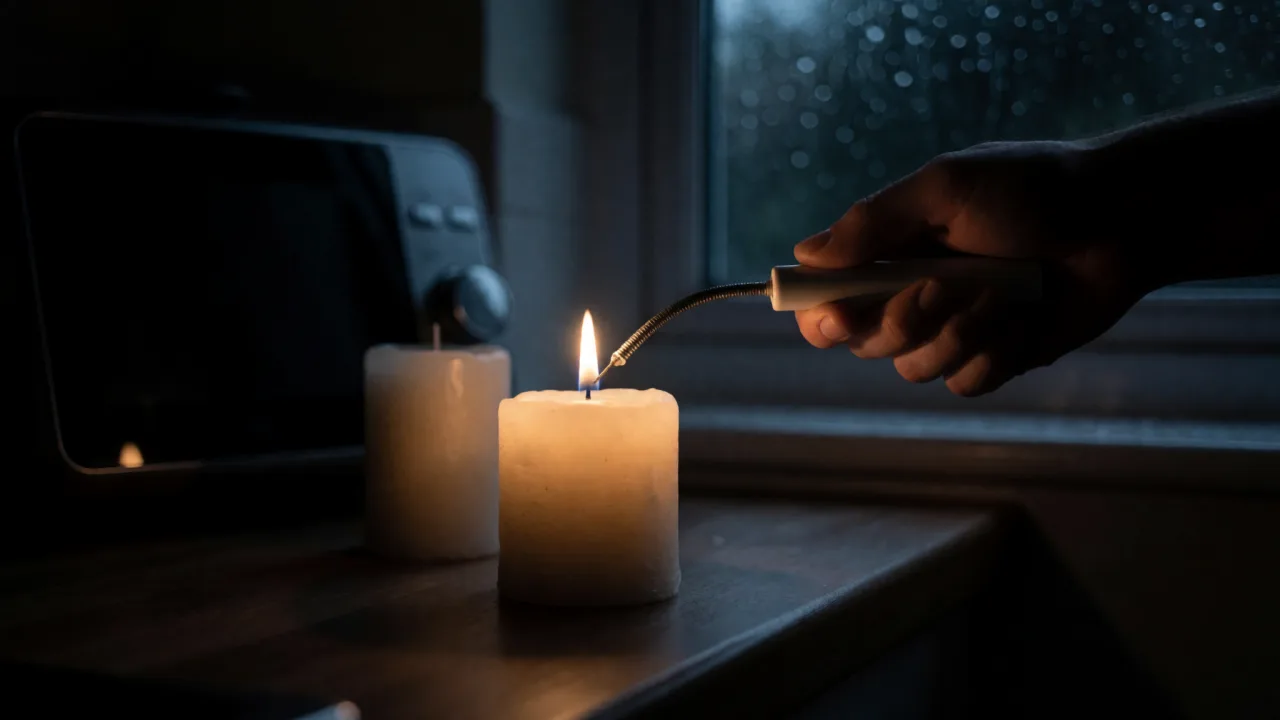
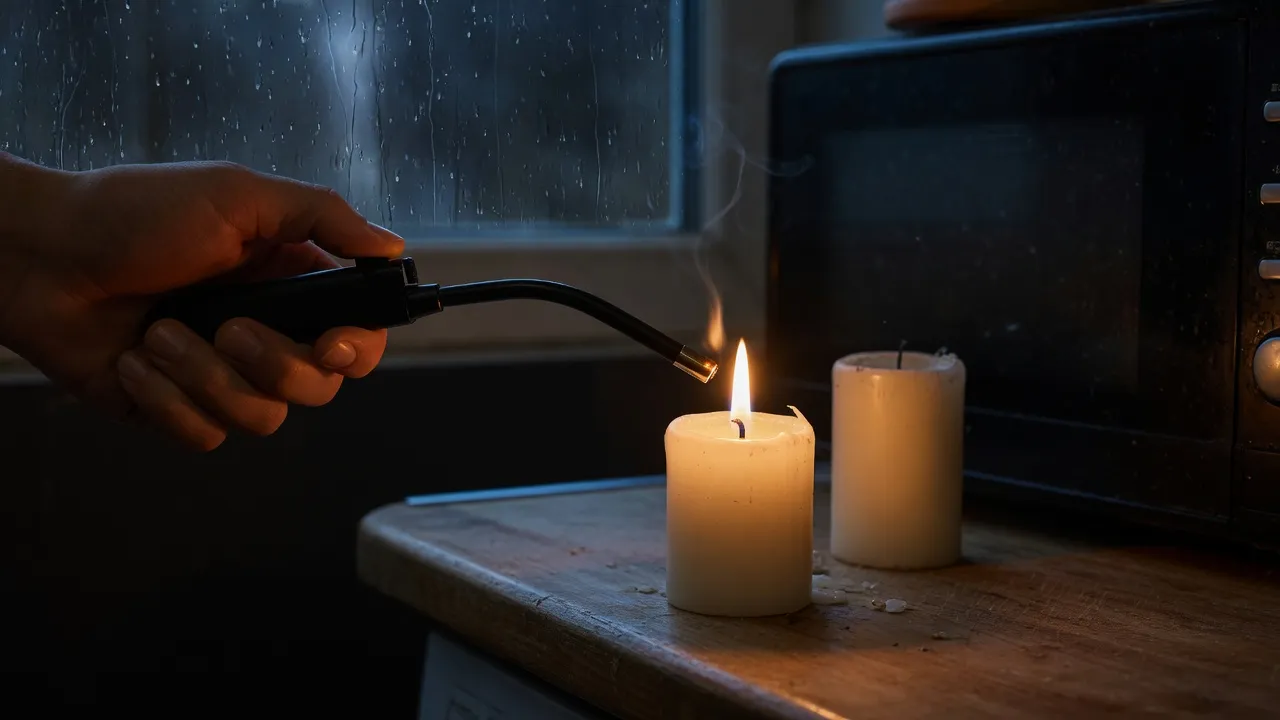
Swap in stronger image picks and drop the magnetic-tail image
The Sep 2 batch was generated in five models but only the Krea set was
compared. After a side-by-side review, the belt, blackout candle and cold
lighter images now use the Grok versions. Every model's magnetic-tail
image was rejected, so the Olight section goes without an image until a
re-briefed one is generated; the old Olight S1R render stays out.

diff --git a/PLAN.md b/PLAN.md
@@ -326,25 +326,32 @@ it. 7 stems in `lightertorch-images/PROMPTS-2026-09-02.md`, ordered by certainty
 - **Tier 3 (Q4 seasonal).** Blackout candle-lighting and cold-weather lighter
   scenes, for posts that already exist. Install before the Nov–Dec peak.
 
-**Installed 2026-09-27.** All 7 generated and reviewed at full resolution.
+**Installed 2026-09-27, after a cross-model review.** The Sep 2 run produced
+all 7 stems in five models (Krea, Grok, Z-Image, Flux, Ideogram), but only the
+Krea set was ever compared, so the Krea picks went in by default. Batu reviewed
+all five side by side (`lightertorch-images/review/2026-09-27-model-compare/`).
+The final picks are mixed-model; the per-stem reasons are in `selections.txt`.
 
-- Tier 1: both brand renders in `olight-vs-fenix-vs-streamlight.md` replaced.
-  No text, logos or insignia; the one engine-bay label is illegible blur.
-- Tier 3: `blackout-kitchen-candle...` under "Fire, Candles, and the Old Ways"
-  in `/best-flashlights-for-power-outages/`; `cold-weather-lighter...` under
-  "Problem 4: … in the cold" in `/fixing-a-lighter/`. One placement each — the
-  candle-lighter hero already shows a flexible-neck lighter on a candle, and the
-  BIC post's cold note is a bullet, not a section.
-- Alt text corrected to what the images actually show (the brief's alt claimed
-  a scuffed torch and visible breath; neither is in frame).
-- Tier 2: held, **not committed** — files sit untracked in
-  `public/uploads/2026/09/` until their posts are validated and written.
-  **`rechargeable-cells-charger-bench` fails its own brief:** only 3 large cells,
-  the small cells read as stubby CR123s rather than AAs (the size ratio is ~2.5×,
-  not ~1.3×), and there is no corrosion. Regenerate before using it for the
-  18650-vs-AA post. The other two (fading beam, submerged) pass.
+- **Live in posts:** belt (Grok) in `olight-vs-fenix-vs-streamlight.md` under
+  Streamlight; blackout candle (Grok) under "Fire, Candles, and the Old Ways" in
+  `/best-flashlights-for-power-outages/`; cold lighter (Grok) under "Problem 4:
+  … in the cold" in `/fixing-a-lighter/`. One placement each: the
+  candle-lighter hero already shows a lighter on a candle, and the BIC post's
+  cold note is a bullet, not a section.
+- **Olight section has no image for now.** The Olight S1R render is gone, and
+  every model's magnetic-tail version was rejected.
+- **Held, untracked in `public/uploads/2026/09/`:** fading beams (Z-Image) and
+  underwater (Krea), for the unwritten question posts.
+- **Rejected in all five models, re-briefed** in
+  `lightertorch-images/PROMPTS-2026-09-27.md` for Hermes:
+  - magnetic tail: standing a light upright never shows a magnet. New concept:
+    stuck sideways on vertical steel.
+  - 18650 vs AA: every model got the size ratio or the trade dress wrong. New
+    concept: two cells upright at eye level.
+- Every image and its alt text was checked at full resolution for text, logos
+  and insignia.
 
-Build: 51 pages, 97 unique image refs in `dist/`, zero missing, zero external.
+Build: 51 pages, every image ref in `dist/` resolves, zero external.
 
 **Not decided:** every image on the site is 16:9, but `PinOverlay.astro` pins
 whatever the reader hovers and Pinterest favours 2:3. The candle-lighter and

diff --git a/src/content/blog/olight-vs-fenix-vs-streamlight.md b/src/content/blog/olight-vs-fenix-vs-streamlight.md
@@ -26,7 +26,7 @@ If you've narrowed your search to these three names, you've already done the har
 
 ## Streamlight — The Duty Workhorse
 
-![A black flashlight clipped to a worn leather work belt at night, beside a vehicle on wet asphalt.](/uploads/2026/09/duty-flashlight-work-belt-night.webp)
+![A scuffed black flashlight hanging from a worn leather belt at night, on a wet road beside a parked car.](/uploads/2026/09/duty-flashlight-work-belt-night.webp)
 
 Streamlight has been building lights for police, firefighters, and industry since 1973, and it shows in the design philosophy: nothing exotic, everything durable. As we covered in [what flashlights police use](/what-flashlights-do-police-use/), Streamlight is the most common brand on American duty belts — and that field record is the brand's best argument.
 
@@ -59,8 +59,6 @@ Fenix built its name with outdoor enthusiasts, and its catalogue reads like a hi
 **Our picks:** [Fenix PD36R](https://www.amazon.com/s?k=fenix+pd36r&tag=lightertorch-20) (all-rounder), [E-series](https://www.amazon.com/s?k=fenix+e35+flashlight&tag=lightertorch-20) (compact EDC), [HM-series headlamps](https://www.amazon.com/s?k=fenix+headlamp+rechargeable&tag=lightertorch-20) (hands-free).
 
 ## Olight — The EDC Innovator
-
-![A pocket-sized flashlight standing on its magnetic tail cap inside a car engine bay, lighting the work area hands-free.](/uploads/2026/09/magnetic-tail-flashlight-under-car-hood.webp)
 
 Olight is the youngest of the three and behaves like it: fast release cycles, bold colors, and features the other two don't have. Its magnetic MCC charging tail — snap the cable on, no ports to open — is genuinely convenient, and nobody packs more light into smaller bodies.
 

diff --git a/src/content/blog/best-flashlights-for-power-outages.md b/src/content/blog/best-flashlights-for-power-outages.md
@@ -41,7 +41,7 @@ The resilient setup mixes chemistries: rechargeable primaries, alkaline-powered 
 
 ## Fire, Candles, and the Old Ways
 
-![A flexible-neck lighter lighting a pillar candle in a dark kitchen during a power outage, rain on the window behind.](/uploads/2026/09/blackout-kitchen-candle-lit-by-long-lighter.webp)
+![A long-neck lighter that has just lit a pillar candle in a dark kitchen during a power outage, rain on the window behind.](/uploads/2026/09/blackout-kitchen-candle-lit-by-long-lighter.webp)
 
 Candles cause a well-documented spike in house fires during every major outage — if you use them, never leave one burning unattended, and put them in real holders away from curtains. The safer modern equivalent for ambiance and ignition both: an [arc lighter](/best-arc-lighters-for-camping/) for the gas stove (most gas ranges light manually in an outage — here's [how to light a gas stove manually](/manually-lighting-a-gas-stove/)) and LED lanterns for the light. If you do stock a lighter in the kit, a fresh BIC keeps for years, as we covered in [Zippo vs BIC vs arc](/zippo-vs-bic-vs-arc-lighter/).
 

diff --git a/src/content/blog/fixing-a-lighter.md b/src/content/blog/fixing-a-lighter.md
@@ -57,7 +57,7 @@ On a flint-wheel refillable, the flint is a consumable. Unscrew the retaining sc
 
 ### Problem 4: It works indoors but not outside in the cold
 
-![Gloved hands holding an unlit plastic gas lighter in freezing weather, frost on the gloves and on the log beside them.](/uploads/2026/09/cold-weather-lighter-gloved-hands-frost.webp)
+![Frost-covered gloves holding an unlit disposable lighter with little fuel left, breath misting in the freezing air.](/uploads/2026/09/cold-weather-lighter-gloved-hands-frost.webp)
 
 This isn't a fault. **Butane boils at about −0.5 °C (31 °F)**, and below roughly 4 °C (40 °F) it stops generating enough vapour pressure to feed the jet. Warm the lighter in a closed fist or an inside pocket for a minute and it will light.
 
